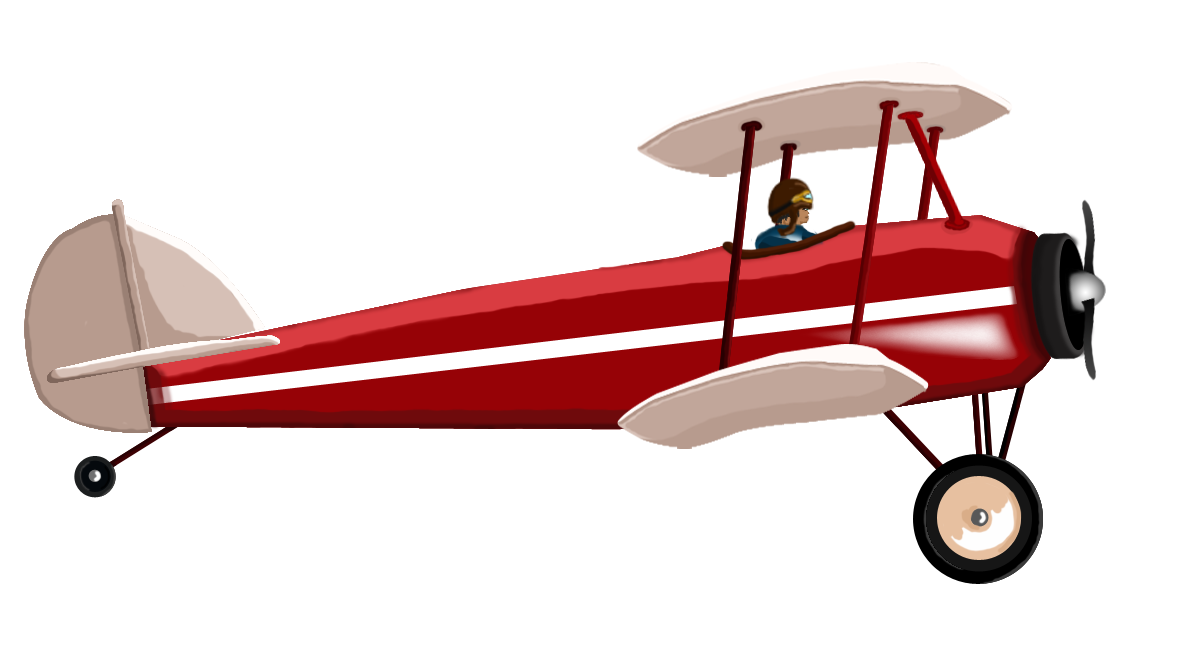
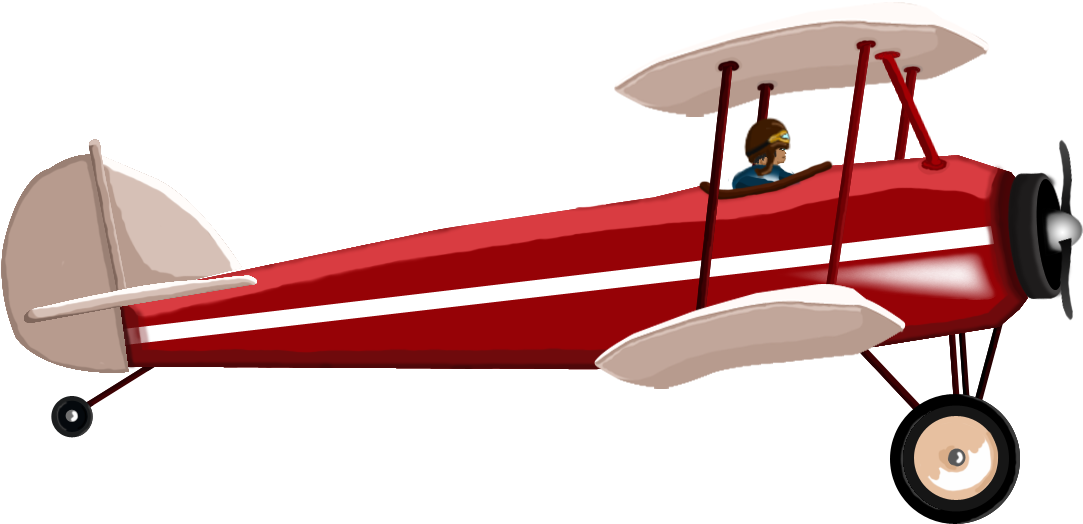
stage is loading need to work on plane image and making the player move Might add clouds first

Changed region(s): [[0.0, 0.0305, 1.0, 1.0]]

diff --git a/Level.py b/Level.py
@@ -32,12 +32,20 @@ class Level():
         for y, line in enumerate(lines):
             for x, c in enumerate(line):
                 if c == '#':
-                    Block("Pictures\Blocks, and background\Crates\obj_crate002.png", 
-                         [blockSize*x+blockSize/2,blockSize*y+(blockSize/2)-12000])
+                    Block("Pictures/Blocks, and background/Crates/obj_crate002.png", 
+                         [blockSize*x+blockSize/2,blockSize*y+(blockSize/2)-11900])
                 if c == 'A':
-                    Block("Pictures\Blocks, and background\Crates\slope.png", 
-                         [blockSize*x+blockSize/2,blockSize*y+(blockSize/2)-12000])
+                    Block("Pictures/Blocks, and background/Crates/slope.png", 
+                         [blockSize*x+blockSize/2,blockSize*y+(blockSize/2)-11900])
                 
                 if c == '/':
-                    Block("Pictures\Blocks, and background\Crates\slope.png", 
-                         [blockSize*x+blockSize/2,blockSize*y+(blockSize/2)-12000])
+                    Block("Pictures/Blocks, and background/Crates/ramp.png", 
+                         [blockSize*x+blockSize/2,blockSize*y+(blockSize/2)-11900])
+                         
+                #if c == '_':
+                    #Block("Pictures/Blocks, and background/Crates/plank.png", 
+                         #[blockSize*x+blockSize/2,blockSize*y+(blockSize/2)-11900])
+                         
+                if c == '@':
+                    Block("Pictures/Player/Biplane.png", 
+                         [blockSize*x+blockSize/2,blockSize*y+(blockSize/2)-11900])

diff --git a/PlaneGameMain.py b/PlaneGameMain.py
@@ -11,8 +11,8 @@ pygame.init()
 
 clock = pygame.time.Clock()
 
-width = 1000 
-height = 800
+width = 1200 
+height = 900
 size = width, height
 
 bgColor = r,g,b = 135, 206, 235
